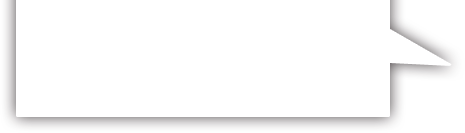
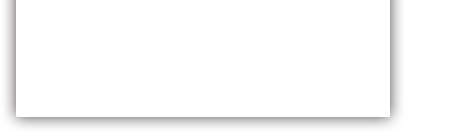
update act.html

Changed region(s): [[0.8129, 0.1805, 0.9935, 0.5714]]

diff --git a/act.html b/act.html
@@ -28,7 +28,7 @@
           <span class="sep" style="background:none;"></span>
           <a class="menu" href="./photos.html">精彩图库</a>
           <span class="sep"></span>
-          <a class="menu menu-sign" href="./sign.html">在线报名</a>
+          <a id="t_nav5" class="menu menu-sign" target="_blank" href="http://182.255.24.198/porsche/"><span>在线报名</span></a>
         </nav>
         <img class="logo" src="./images/logo.png" >
       </header>
@@ -55,52 +55,56 @@
             </map>
             <ul class="tips-wrap" >
               <!-- for yellow -->
-              <li class="tip-wrap" style="display:none;">
+              <li class="tip-wrap" style="display:none;left:442px;top:74px;">
                 <div class="tip-top"></div>
                 <div class="tip-middle"></div>
                 <div class="tip-bottom"></div>
+                <div class="tip-arrow" style="top:81px;right:24px;"><img src="./images/tip-angle.png" /></div>
                 <div class="tip-con">
                   <div style="width:326px;">
-                    <img src="./photo/tip-img.png" />
+                    <img src="./photo/tip-p.jpg" />
                     <h2>保时捷性能</h2>
                     <p>我们很难找到体验保时捷动力的那种激动人心的感觉。在保时捷性能区域，您可以探索包括全新 Panamera 的保时捷全系车型。参加抽奖活动，您将有机会坐上全新保时捷，体验飞奔于赛道的感觉！</p>
                   </div>
                 </div>
               </li>
               <!-- for blue -->
-              <li class="tip-wrap" style="display:none;">
+              <li class="tip-wrap" style="display:none;left:256px;top:74px;">
                 <div class="tip-top"></div>
                 <div class="tip-middle"></div>
                 <div class="tip-bottom"></div>
+                <div class="tip-arrow" style="top:121px;left:-51px;"><img src="./images/tip-angle2.png" /></div>
                 <div class="tip-con">
                   <div style="width:326px;">
-                    <img src="./photo/tip-img.png" />
+                    <img src="./photo/tip-d.jpg" />
                     <h2>保时捷基因</h2>
                     <p>拥有世界级的设计和坚持不懈追求行业领先技术的悠久历史：这就是我们的 DNA。保时捷 DNA 区域将展示从斯图加特保时捷博物馆带来的老爷车，同样令人兴奋的是我们将向您展示传承保时捷未来的下一代领先技术。</p>
                   </div>
                 </div>
               </li>
               <!-- for red -->
-              <li class="tip-wrap" style="display:none;">
+              <li class="tip-wrap" style="display:none;left:56px;top:74px;">
                 <div class="tip-top"></div>
                 <div class="tip-middle"></div>
                 <div class="tip-bottom"></div>
+                <div class="tip-arrow" style="top:51px;right:24px;"><img src="./images/tip-angle.png" /></div>
                 <div class="tip-con">
                   <div style="width:326px;">
-                    <img src="./photo/tip-img.png" />
+                    <img src="./photo/tip-m.jpg" />
                     <h2>保时捷赛道</h2>
                     <p>作为历史上获得最多赛车奖项的汽车品牌，保时捷并非只是一时对赛车兴趣：事实上，赛车是我们的魅力所在。参观保时捷赛道区域，探索令人兴奋的保时捷亚洲卡雷拉杯赛事，和您的朋友体验逼真的赛车游戏，让您沉浸在保时捷赛车的悠久历史中。</p>
                   </div>
                 </div>
               </li>
               <!-- for gray -->
-              <li class="tip-wrap" style="display:none;">
+              <li class="tip-wrap" style="display:none;top:174px;left:156px;">
                 <div class="tip-top"></div>
                 <div class="tip-middle"></div>
                 <div class="tip-bottom"></div>
+                <div class="tip-arrow" style="top:121px;right:24px;"><img src="./images/tip-angle.png" /></div>
                 <div class="tip-con">
                   <div style="width:326px;">
-                    <img src="./photo/tip-img.png" />
+                    <img src="./photo/tip-l.jpg" />
                     <h2>保时捷体验</h2>
                     <p>在保时捷体验区域，探索更多的令保时捷品牌让人着迷的元素。儿童区域让小孩可以开始体验保时捷魅力；高尔夫模拟练习器、舞台表演和保时捷咖啡区也将为您提供美好的体验。</p>
                   </div>
@@ -113,49 +117,68 @@
             <img src="./photo/act-bg.jpg" width="100%" usemap="#actbg" />
             <map name="actbg" id="actbg">
               <!--yellow-->
-              <area shape="polygon" coords="171,195,288,289,397,241,355,203,756,44,668,0" href="javascript:;" />
+              <area shape="polygon" index=0 coords="171,195,288,289,397,241,355,203,756,44,668,0" href="javascript:;" />
               <!--blue-->
-              <area shape="polygon" coords="578,144,768,228,1041,74,846,13" href="javascript:;" />
+              <area shape="polygon" index=1 coords="578,144,768,228,1041,74,846,13" href="javascript:;" />
               <!--red-->
-              <area shape="polygon" coords="426,429,514,494,518,545,876,317,880,272,788,236" href="javascript:;" />
+              <area shape="polygon" index=2 coords="426,429,514,494,518,545,876,317,880,272,788,236" href="javascript:;" />
+              <!--grey-->
+              <area shape="polygon" index=3 coords="718,578,1021,377,1017,576" href="javascript:;">
             </map>
             <ul class="tips-wrap" >
               <!-- for yellow -->
-              <li class="tip-wrap" style="display:none;top: -13px;left: -75px;">
+              <li class="tip-wrap" style="display:none;top: 85px;left: 49px;">
                 <div class="tip-top"></div>
                 <div class="tip-middle"></div>
                 <div class="tip-bottom"></div>
+                <div class="tip-arrow" style="top:81px;right:24px;"><img src="./images/tip-angle.png" /></div>
                 <div class="tip-con">
                   <div style="width:326px;">
-                    <img src="./photo/tip-img.png" />
+                    <img src="./photo/tip-p.jpg" />
                     <h2>保时捷性能</h2>
                     <p>我们很难找到体验保时捷动力的那种激动人心的感觉。在保时捷性能区域，您可以探索包括全新 Panamera 的保时捷全系车型。参加抽奖活动，您将有机会坐上全新保时捷，体验飞奔于赛道的感觉！</p>
                   </div>
                 </div>
               </li>
               <!-- for blue -->
-              <li class="tip-wrap" style="display:none;top: -58px;left: 204px;">
+              <li class="tip-wrap" style="display:none;top: 108px;left: 244px;">
                 <div class="tip-top"></div>
                 <div class="tip-middle"></div>
                 <div class="tip-bottom"></div>
+                <div class="tip-arrow" style="top:81px;right:24px;"><img src="./images/tip-angle.png" /></div>
                 <div class="tip-con">
                   <div style="width:326px;">
-                    <img src="./photo/tip-img.png" />
+                    <img src="./photo/tip-d.jpg" />
                     <h2>保时捷基因</h2>
                     <p>拥有世界级的设计和坚持不懈追求行业领先技术的悠久历史：这就是我们的 DNA。保时捷 DNA 区域将展示从斯图加特保时捷博物馆带来的老爷车，同样令人兴奋的是我们将向您展示传承保时捷未来的下一代领先技术。</p>
                   </div>
                 </div>
               </li>
               <!-- for red -->
-              <li class="tip-wrap" style="display:none;">
+              <li class="tip-wrap" style="display:none;top: 258px;left: 184px;">
                 <div class="tip-top"></div>
                 <div class="tip-middle"></div>
                 <div class="tip-bottom"></div>
+                <div class="tip-arrow" style="top:181px;right:24px;"><img src="./images/tip-angle.png" /></div>
                 <div class="tip-con">
                   <div style="width:326px;">
-                    <img src="./photo/tip-img.png" />
+                    <img src="./photo/tip-m.jpg" />
                     <h2>保时捷赛道</h2>
                     <p>作为历史上获得最多赛车奖项的汽车品牌，保时捷并非只是一时对赛车兴趣：事实上，赛车是我们的魅力所在。参观保时捷赛道区域，探索令人兴奋的保时捷亚洲卡雷拉杯赛事，和您的朋友体验逼真的赛车游戏，让您沉浸在保时捷赛车的悠久历史中。</p>
+                  </div>
+                </div>
+              </li>
+              <!-- for gray -->
+              <li class="tip-wrap" style="display:none;top:284px;left:456px;">
+                <div class="tip-top"></div>
+                <div class="tip-middle"></div>
+                <div class="tip-bottom"></div>
+                <div class="tip-arrow" style="top:221px;right:24px;"><img src="./images/tip-angle.png" /></div>
+                <div class="tip-con">
+                  <div style="width:326px;">
+                    <img src="./photo/tip-l.jpg" />
+                    <h2>保时捷体验</h2>
+                    <p>在保时捷体验区域，探索更多的令保时捷品牌让人着迷的元素。儿童区域让小孩可以开始体验保时捷魅力；高尔夫模拟练习器、舞台表演和保时捷咖啡区也将为您提供美好的体验。</p>
                   </div>
                 </div>
               </li>

diff --git a/m/act.html b/m/act.html
@@ -18,11 +18,11 @@
     <i class="icon"></i>
     <nav>
       <div class="back-nav"><i class="icon"></i></div>
-      <a class="disabled" data-ajax="false" href="#">日程安排</a>
-      <a class="disabled" data-ajax="false" href="#">活动环节</a>
-      <a href="./photos.html" data-ajax="false">精彩图库</a>
-      <a target="_blank" data-ajax="false" href="http://182.255.24.198/porsche/">在线报名</a>
-      <a href="./index.html" data-ajax="false">首页</a>
+          <a href="./daily.html" data-ajax="false">日程安排</a>
+          <a href="./act.html" data-ajax="false">活动环节</a>
+          <a href="./photos.html" data-ajax="false">精彩图库</a>
+          <a target="_blank" data-ajax="false" href="http://182.255.24.198/porsche/">在线报名</a>
+          <a href="./index.html" data-ajax="false">首页</a>
     </nav>
   </header>
   <div class="main daily-main">
@@ -54,7 +54,7 @@
                 <area shape="polygon" index=3 coords="54,127,315,52,391,82,77,172" href="javascript:;" />
               </map>
               <!-- yellow -->
-              <div class="tip" style="right: 60%;bottom: 85%;">
+              <div class="tip" style="right: 60%;bottom: 84%;">
                 <div class="tip-bg">
                 </div>
                 <div class="tip-angle">
@@ -70,7 +70,7 @@
                 保时捷基因
               </div>
               <!-- red -->
-              <div class="tip" style="display:none;right: 38%;bottom: 59%;">
+              <div class="tip" style="display:none;right: 44%;bottom: 89%;">
                 <div class="tip-bg">
                 </div>
                 <div class="tip-angle">
@@ -78,7 +78,7 @@
                 保时捷赛道
               </div>
               <!-- gray -->
-              <div class="tip" style="display:none;right: 18%;bottom: 59%;">
+              <div class="tip" style="display:none;right: 22%;bottom: 67%;">
                 <div class="tip-bg">
                 </div>
                 <div class="tip-angle">
@@ -89,25 +89,25 @@
             <ul class="tip-details" index=0>
               <!-- yellow -->
               <li class="tip-detail">
-                <img src="./images/sh-bwg.jpg" width="100%" />
+                <img src="./photo/tip-p.jpg" width="100%" />
                 <h2>保时捷性能</h2>
                 <p>我们很难找到体验保时捷动力的那种激动人心的感觉。在保时捷性能区域，您可以探索包括全新 Panamera 的保时捷全系车型。参加抽奖活动，您将有机会坐上全新保时捷，体验飞奔于赛道的感觉！</p>
               </li>
               <!-- green -->
               <li class="tip-detail" style="display:none;">
-                <img src="./images/sh-bwg.jpg" width="100%" />
+                <img src="./photo/tip-d.jpg" width="100%" />
                 <h2>保时捷基因</h2>
                 <p>拥有世界级的设计和坚持不懈追求行业领先技术的悠久历史：这就是我们的 DNA。保时捷 DNA 区域将展示从斯图加特保时捷博物馆带来的老爷车，同样令人兴奋的是我们将向您展示传承保时捷未来的下一代领先技术。</p>
               </li>
               <!-- red -->
               <li class="tip-detail" style="display:none;">
-                <img src="./images/sh-bwg.jpg" width="100%" />
+                <img src="./photo/tip-m.jpg" width="100%" />
                 <h2>保时捷赛道</h2>
                 <p>作为历史上获得最多赛车奖项的汽车品牌，保时捷并非只是一时对赛车兴趣：事实上，赛车是我们的魅力所在。参观保时捷赛道区域，探索令人兴奋的保时捷亚洲卡雷拉杯赛事，和您的朋友体验逼真的赛车游戏，让您沉浸在保时捷赛车的悠久历史中。</p>
               </li>
               <!-- gray -->
               <li class="tip-detail" style="display:none;">
-                <img src="./images/sh-bwg.jpg" width="100%" />
+                <img src="./photo/tip-l.jpg" width="100%" />
                 <h2>保时捷体验</h2>
                 <p>在保时捷体验区域，探索更多的令保时捷品牌让人着迷的元素。儿童区域让小孩可以开始体验保时捷魅力；高尔夫模拟练习器、舞台表演和保时捷咖啡区也将为您提供美好的体验。</p>
               </li>
@@ -149,25 +149,39 @@
                 </div>
                 保时捷赛道
               </div>
+              <!-- gray -->
+              <div class="tip" style="display:none;right: 2%;bottom: 15%;">
+                <div class="tip-bg">
+                </div>
+                <div class="tip-angle">
+                </div>
+                保时捷体验
+              </div>
             </section>
             <ul class="tip-details" index=1>
               <!-- yellow -->
               <li class="tip-detail">
-                <img src="./images/sh-bwg.jpg" width="100%" />
+                <img src="./photo/tip-p.jpg" width="100%" />
                 <h2>保时捷性能</h2>
                 <p>我们很难找到体验保时捷动力的那种激动人心的感觉。在保时捷性能区域，您可以探索包括全新 Panamera 的保时捷全系车型。参加抽奖活动，您将有机会坐上全新保时捷，体验飞奔于赛道的感觉！</p>
               </li>
               <!-- green -->
               <li class="tip-detail" style="display:none;">
-                <img src="./images/sh-bwg.jpg" width="100%" />
+                <img src="./photo/tip-d.jpg" width="100%" />
                 <h2>保时捷基因</h2>
                 <p>拥有世界级的设计和坚持不懈追求行业领先技术的悠久历史：这就是我们的 DNA。保时捷 DNA 区域将展示从斯图加特保时捷博物馆带来的老爷车，同样令人兴奋的是我们将向您展示传承保时捷未来的下一代领先技术。</p>
               </li>
               <!-- red -->
               <li class="tip-detail" style="display:none;">
-                <img src="./images/sh-bwg.jpg" width="100%" />
+                <img src="./photo/tip-m.jpg" width="100%" />
                 <h2>保时捷赛道</h2>
                 <p>作为历史上获得最多赛车奖项的汽车品牌，保时捷并非只是一时对赛车兴趣：事实上，赛车是我们的魅力所在。参观保时捷赛道区域，探索令人兴奋的保时捷亚洲卡雷拉杯赛事，和您的朋友体验逼真的赛车游戏，让您沉浸在保时捷赛车的悠久历史中。</p>
+              </li>
+              <!-- gray -->
+              <li class="tip-detail" style="display:none;">
+                <img src="./photo/tip-l.jpg" width="100%" />
+                <h2>保时捷体验</h2>
+                <p>在保时捷体验区域，探索更多的令保时捷品牌让人着迷的元素。儿童区域让小孩可以开始体验保时捷魅力；高尔夫模拟练习器、舞台表演和保时捷咖啡区也将为您提供美好的体验。</p>
               </li>
             </ul>
           </div>

diff --git a/m/photos.html b/m/photos.html
@@ -32,11 +32,11 @@
     <i class="icon"></i>
     <nav>
       <div class="back-nav"><i class="icon"></i></div>
-      <a href="./daily.html" data-ajax="false" href="#">日程安排</a>
-      <a class="disabled" data-ajax="false" href="#">活动环节</a>
-      <a href="./photos.html" data-ajax="false">精彩图库</a>
-      <a target="_blank" data-ajax="false" href="http://182.255.24.198/porsche/">在线报名</a>
-      <a href="./index.html" data-ajax="false">首页</a>
+          <a href="./daily.html" data-ajax="false">日程安排</a>
+          <a href="./act.html" data-ajax="false">活动环节</a>
+          <a href="./photos.html" data-ajax="false">精彩图库</a>
+          <a target="_blank" data-ajax="false" href="http://182.255.24.198/porsche/">在线报名</a>
+          <a href="./index.html" data-ajax="false">首页</a>
     </nav>
   </header>
   <div class="main photos-main">

diff --git a/m/daily.html b/m/daily.html
@@ -18,11 +18,11 @@
     <i class="icon"></i>
     <nav>
       <div class="back-nav"><i class="icon"></i></div>
-      <a href="./daily.html" data-ajax="false" href="#">日程安排</a>
-      <a class="disabled" data-ajax="false" href="#">活动环节</a>
-      <a href="./photos.html" data-ajax="false">精彩图库</a>
-      <a target="_blank" data-ajax="false" href="http://182.255.24.198/porsche/">在线报名</a>
-      <a href="./index.html" data-ajax="false">首页</a>
+          <a href="./daily.html" data-ajax="false">日程安排</a>
+          <a href="./act.html" data-ajax="false">活动环节</a>
+          <a href="./photos.html" data-ajax="false">精彩图库</a>
+          <a target="_blank" data-ajax="false" href="http://182.255.24.198/porsche/">在线报名</a>
+          <a href="./index.html" data-ajax="false">首页</a>
     </nav>
   </header>
   <div class="main daily-main">

diff --git a/m/index.html b/m/index.html
@@ -31,8 +31,8 @@
       <i class="icon"></i>
       <nav>
           <div class="back-nav"><i class="icon"></i></div>
-          <a href="./daily.html" data-ajax="false" href="#">日程安排</a>
-          <a class="disabled" data-ajax="false" href="#">活动环节</a>
+          <a href="./daily.html" data-ajax="false">日程安排</a>
+          <a href="./act.html" data-ajax="false">活动环节</a>
           <a href="./photos.html" data-ajax="false">精彩图库</a>
           <a target="_blank" data-ajax="false" href="http://182.255.24.198/porsche/">在线报名</a>
           <a href="./index.html" data-ajax="false">首页</a>

diff --git a/photos.html b/photos.html
@@ -35,7 +35,7 @@
           <span class="sep"></span>
           <a id="t_nav2" class="menu" href="./daily.html"><span>日程安排</span></a>
           <span class="sep"></span>
-          <a id="t_nav3" class="menu disable" href="###"><span>活动环节</span></a>
+          <a id="t_nav3" class="menu" href="./act.html"><span>活动环节</span></a>
           <span class="sep" style="background:none;"></span>
           <a id="t_nav4" class="menu menu-sel" href="./photos.html"><span>精彩图库</span></a>
           <span class="sep" style="background:none;"></span>

diff --git a/index.html b/index.html
@@ -50,7 +50,7 @@
           <span class="sep" style="background:none;"></span>
           <a id="t_nav2" class="menu" href="./daily.html"><span>日程安排</span></a>
           <span class="sep"></span>
-          <a id="t_nav3" class="menu disable" href="###"><span>活动环节</span></a>
+          <a id="t_nav3" class="menu" href="./act.html"><span>活动环节</span></a>
           <span class="sep"></span>
           <a id="t_nav4" class="menu" href="./photos.html"><span>精彩图库</span></a>
           <span class="sep"></span>

diff --git a/daily.html b/daily.html
@@ -24,7 +24,7 @@
           <span class="sep" style="background:none;"></span>
           <a class="menu menu-sel" href="./daily.html">日程安排</a>
           <span class="sep" style="background:none;"></span>
-          <a class="menu disable" href="###">活动环节</a>
+          <a class="menu" href="./act.html">活动环节</a>
           <span class="sep"></span>
           <a class="menu" href="./photos.html">精彩图库</a>
           <span class="sep"></span>

diff --git a/css/base.css b/css/base.css
@@ -676,6 +676,7 @@ span.lpn_ghost {
   position: absolute;
   background: url(../images/tip-angle.png) no-repeat;
 }
+.tip-arrow { position:absolute;}
 
 /* ---------------------------------------------------------photo-list */
 .photo-section{

diff --git a/m/css/m.base.css b/m/css/m.base.css
@@ -636,7 +636,7 @@ header nav a:last-child::after{
 .tip{
     position: absolute;
     height: 45px;
-    font-size: 24px;
+    font-size: 21px;
     line-height: 45px;
     padding: 0 34px 0 23px;
     color: white;
